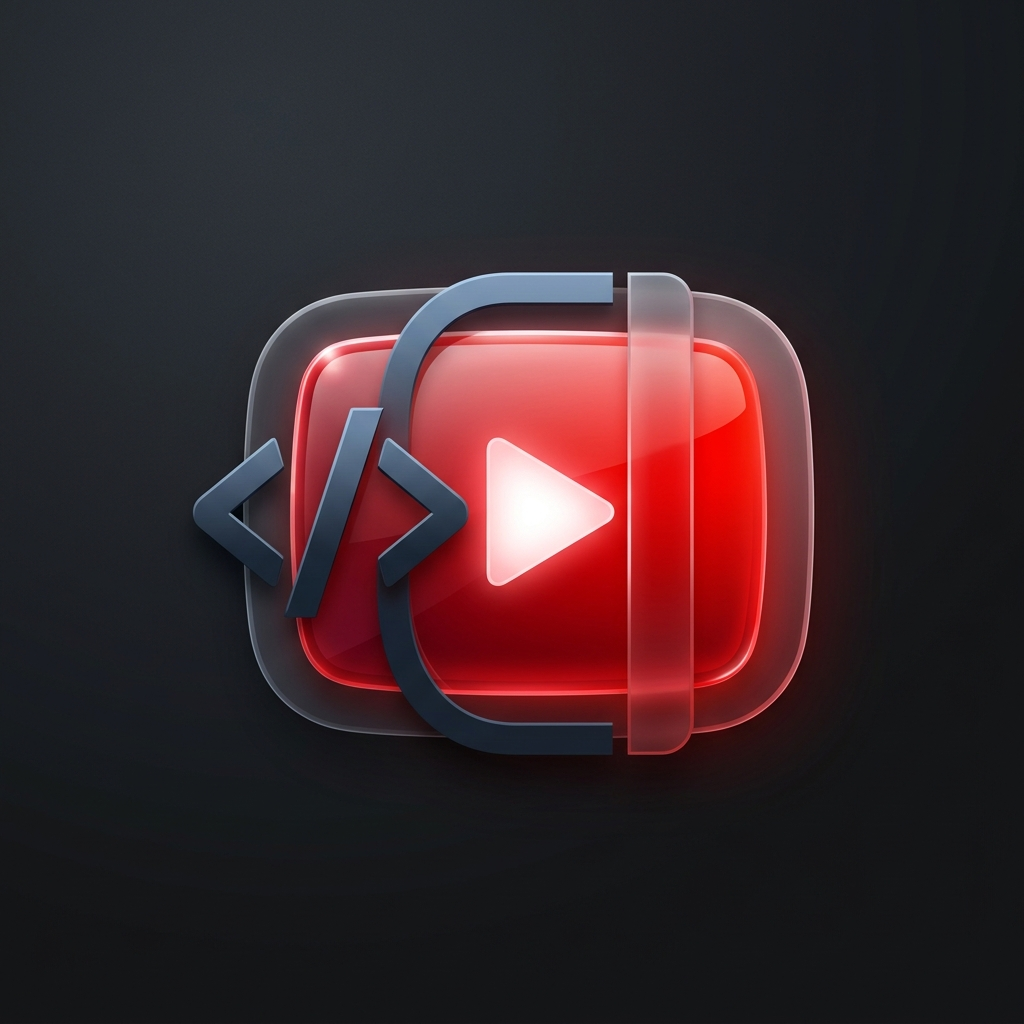
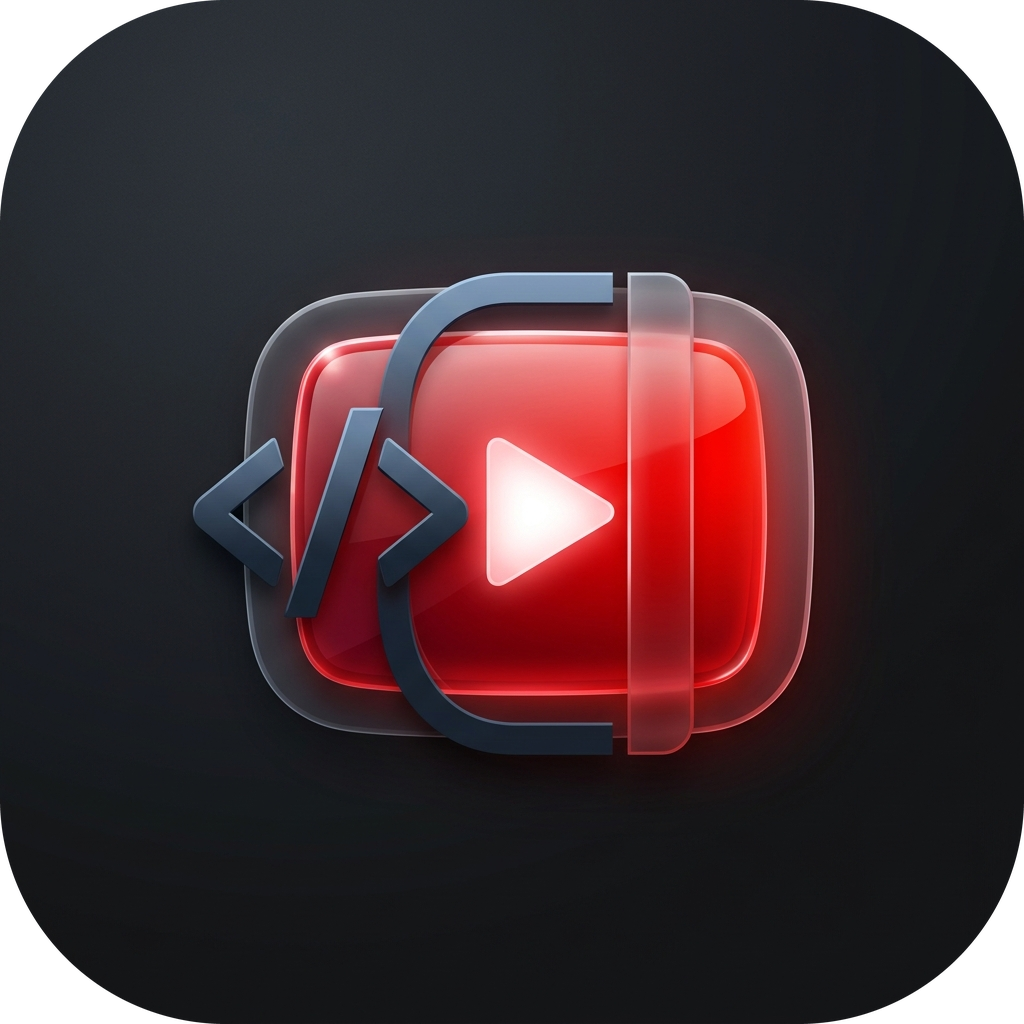
Release 0.4.7: the bot check comes with its cure
A video refused to an anonymous session is the one failure a viewer can do
something about, so the notice now carries the exact command that updates
yt-dlp — chosen from the path the binary was found at, since a Homebrew copy
cannot update itself and a pipx one is not updated by pip — with a button that
copies it, falling back to a hidden selection where the webview withholds the
clipboard.

The icon has rounded corners, and the listing carries keywords.

diff --git a/CHANGELOG.md b/CHANGELOG.md
@@ -1,5 +1,14 @@
 # Changelog
 
+## 0.4.7
+
+- When YouTube refuses a video to an anonymous session, the notice now names the
+  command that updates yt-dlp and offers a button that copies it. Which command
+  it is depends on how yt-dlp was installed — Homebrew, pipx, pip, scoop,
+  chocolatey, winget, or a standalone binary that updates itself.
+- The extension icon has rounded corners, and the marketplace listing carries
+  keywords.
+
 ## 0.4.6
 
 - Stray ffmpeg processes no longer drain the battery. One was left running when
